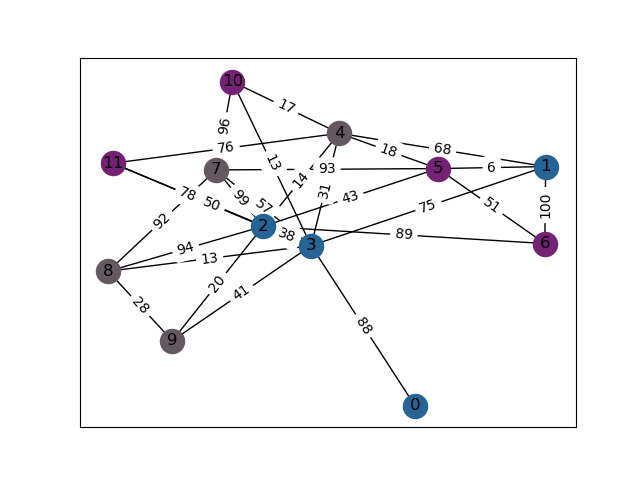
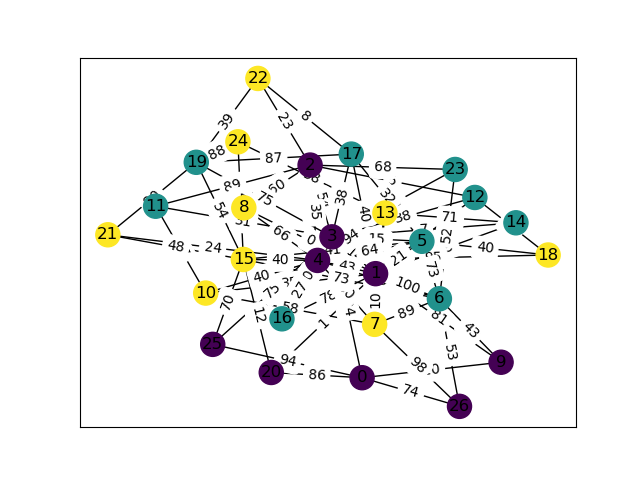
Created rendering option to view the graph. Optimized clustering to be more readable and directly store the cluster as attributes in the networkx graph. Started on environment.

diff --git a/controller_env/envs/graph_env.py b/controller_env/envs/graph_env.py
@@ -6,6 +6,7 @@ from gym import error, spaces, utils
 from gym.utils import seeding
 import networkx as nx
 import matplotlib.pyplot as plt
+import matplotlib.cm as cm
 import numpy as np
 import warnings
 import random
@@ -16,14 +17,18 @@ class ControllerEnv(gym.Env):
 	"""Environment used to simulate the network for the RL"""
 	metadata = {'render.modes' : ['human']}
 
-	def __init__(self, graph):
+	def __init__(self, graph, clusters):
 		"""Initializes the environment (Runs at first)"""
 		print("Initialized environment!")
+		self.original_graph = graph.copy()
+		self.clusters = clusters
+		self.graph = graph.copy()
 
 	def step(self, action):
 		"""Steps the environment once"""
 		print("Environment step")
-		
+		self._set_controllers(action)
+
 	def reset(self):
 		"""Resets the environment to initial state"""
 		print("Reset environment")
@@ -31,6 +36,28 @@ class ControllerEnv(gym.Env):
 	def render(self, mode='human', close=False):
 		"""Renders the environment once"""
 		print("Rendered enviroment")
+		plt.clf()	# Clear the matplotlib figure
+
+		#Redraw the entire graph (this can only be expedited if we save the position and colors beforehand)
+		#Then we won't have to recalculate all this to draw. Maybe make them a global variable?
+		pos = nx.spring_layout(self.graph)
+		node_colors = np.arange(0, nx.number_of_nodes(self.graph), 1)
+		clustering = nx.get_node_attributes(self.graph, 'cluster')
+		for node in clustering:
+			node_colors[node] = clustering[node]
+		nx.draw_networkx_nodes(self.graph, pos, node_color=node_colors)
+		nx.draw_networkx_edges(self.graph, pos, self.graph.edges())        # draw the edges of the self.graph
+		nx.draw_networkx_labels(self.graph, pos)                      # draw  the labels of the self.graph
+		edge_labels = nx.get_edge_attributes(self.graph,'weight')
+		nx.draw_networkx_edge_labels(self.graph,pos,edge_labels=edge_labels) # draw the edge weights of the self.graph
+		plt.draw()
+		plt.show()
+
+	def _set_controllers(self, controllers):
+		for cluster_num in range(len(self.clusters)):
+			for neighbors in nx.all_neighbors(self.graph, controllers[cluster_num]):
+				# TODO: Separate controllers from all nodes not in their cluster, then link all nodes in its cluster directly to it
+				print(controllers[cluster_num], neighbors)
 
 def generateGraph(num_clusters, num_nodes, prob=0.2, weight_low=0, weight_high=100, draw=True):
 	"""Generates graph given number of clusters and nodes
@@ -43,23 +70,40 @@ def generateGraph(num_clusters, num_nodes, prob=0.2, weight_low=0, weight_high=1
 		draw: Whether or not to show graph (True indicates to show)
 	
 	Returns:
-		Graph with nodes in clusters
+		Graph with nodes in clusters, array of clusters
 	"""
 	graph = nx.powerlaw_cluster_graph(num_nodes,3, prob, random.seed(a = None, version = 2))
 
 	traversal = list(nx.bfs_tree(graph, source = 0))    # get a bft of the graph in a list
 	array_traversal = np.array_split(traversal, num_clusters)      # split the bft list into equal parts
-
 	pos = nx.spring_layout(graph)   # get the positions of the nodes of the graph
-	for index, the_traversal in enumerate(array_traversal): # for each cluster and index of the graph
-		subpos = dict()                                # create a sub dictionary of positions for each cluster's ndes
-		for key, value in pos.items():
-			if key in the_traversal:
-				subpos[key] = value
-		randColor = "#" + str(random.randint(0, 999999)).zfill(6)   # get a random hexadecimal colour
-		if draw:
-			nx.draw_networkx_nodes(graph.subgraph(the_traversal), subpos, node_color=randColor, label = "Cluster " + str(index))  # draw an individual cluster
+
+	cluster_attrib = dict() # Dictionary that stores cluster number for each node
+	node_colors = np.arange(0, num_nodes, 1, np.uint8)
+	# Assign cluster attribute for each node
+	for node in graph.nodes:
+		for index, the_traversal in enumerate(array_traversal): # Get clusters and find cluster node is in
+			if node in the_traversal:
+				cluster_attrib[node] = index
+				node_colors[node] = index
+	# Set node cluster numbers and draw them
+	nx.set_node_attributes(graph, cluster_attrib, 'cluster')
+	print(nx.get_node_attributes(graph, 'cluster'))
+	for node in nx.get_node_attributes(graph, 'cluster'):
+		print(node)
+	nx.draw_networkx_nodes(graph, pos, node_color=node_colors)
+
+	# Keeping Vincent's code in case we decide to have a legend for the cluster lables [Usaid]
+	#for index, the_traversal in enumerate(array_traversal): # for each cluster and index of the graph
+	#	subpos = dict()                                # create a sub dictionary of positions for each cluster's ndes
+	#	for key, value in pos.items():
+	#		if key in the_traversal:
+	#			subpos[key] = value
+	#	randColor = "#" + str(random.randint(0, 999999)).zfill(6)   # get a random hexadecimal colour
+	#	if draw:
+	#		nx.draw_networkx_nodes(graph.subgraph(the_traversal), subpos, node_color=randColor, label = "Cluster " + str(index))  # draw an individual cluster
 	
+	#Assign distance weights to edges
 	for edge in graph.edges:
 		graph.add_edge(edge[0], edge[1], weight=random.randint(weight_low, weight_high))
 	
@@ -68,7 +112,8 @@ def generateGraph(num_clusters, num_nodes, prob=0.2, weight_low=0, weight_high=1
 		nx.draw_networkx_labels(graph, pos)                      # draw  the labels of the graph
 		edge_labels = nx.get_edge_attributes(graph,'weight')
 		nx.draw_networkx_edge_labels(graph,pos,edge_labels=edge_labels) # draw the edge weights of the graph
-		plt.savefig("path.png")
+		#plt.savefig("path.png")
 		plt.draw()
 		plt.legend()
 		plt.show()
+	return graph, array_traversal

diff --git a/main.py b/main.py
@@ -6,8 +6,8 @@ import numpy as np
 import controller_env
 from controller_env.envs.graph_env import generateGraph
 
-graph = generateGraph(3, 12, draw=True)
-env = gym.make('Controller-v0', graph=graph)
-env.step(0)
+graph, clusters = generateGraph(3, 27, draw=False)
+env = gym.make('Controller-v0', graph=graph, clusters=clusters)
+env.step([0, 9, 15])
 env.reset()
 env.render()
